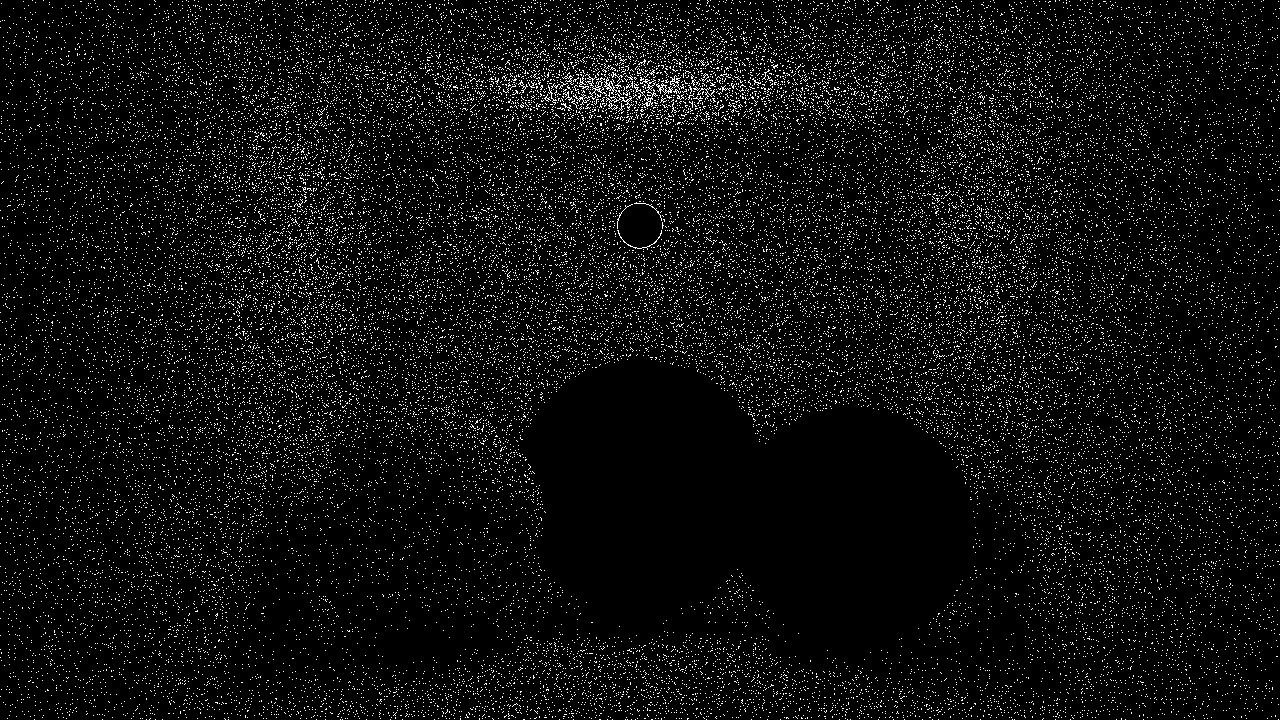
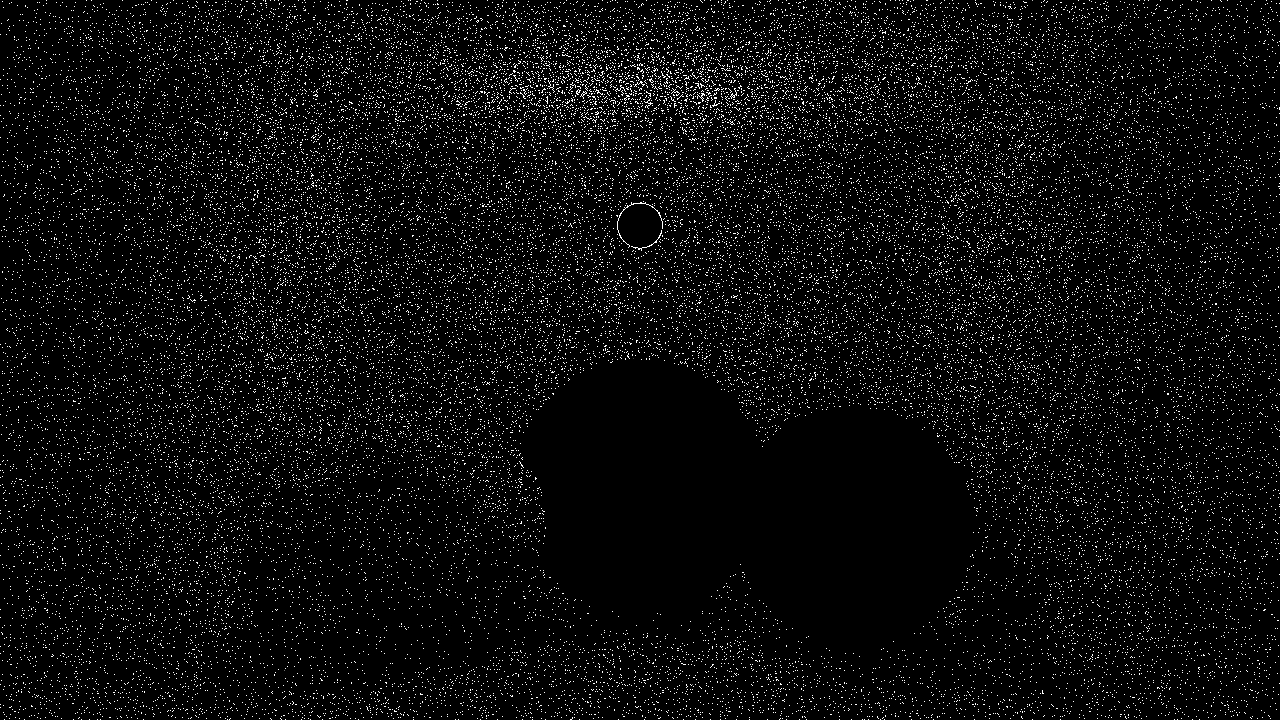
Got diffuse bounces working for path tracing

diff --git a/src/materials.h b/src/materials.h
@@ -202,14 +202,14 @@ public:
         float specularProb{ specular.GetValue().Gray() };
         float transmissiveProb{ refraction.GetValue().Gray() };
 
-        if (transmissiveProb > 0.0f) {
-            const float R0{ 0.04f };
-            const float cosTheta{ std::abs(sInfo.N().Dot(sInfo.V())) };
-            const float F{ R0 + (1.0f - R0) * powf(1.0f - cosTheta, 5.0f) };
-            const float totalSpecTrans{ specularProb + transmissiveProb };
-            specularProb = totalSpecTrans * F;
-            transmissiveProb = totalSpecTrans * (1.0f - F);
-        }
+        //if (transmissiveProb > 0.0f) {
+        //    const float R0{ 0.04f };
+        //    const float cosTheta{ std::abs(sInfo.N().Dot(sInfo.V())) };
+        //    const float F{ R0 + (1.0f - R0) * powf(1.0f - cosTheta, 5.0f) };
+        //    const float totalSpecTrans{ specularProb + transmissiveProb };
+        //    specularProb = totalSpecTrans * F;
+        //    transmissiveProb = totalSpecTrans * (1.0f - F);
+        //}
 
         const float totalProb{ diffuseProb + specularProb + transmissiveProb };
         diffuseProb /= totalProb;
@@ -217,24 +217,27 @@ public:
         transmissiveProb /= totalProb;
 
         const float randomNum{ sInfo.RandomFloat() };
-        if (randomNum < diffuseProb)
+        if (randomNum < diffuseProb) // TODO: Do cosine weighted instead of uniform
         {
             si.lobe = DirSampler::Lobe::DIFFUSE;
 
-            // Direction
-            const float r2{ sInfo.RandomFloat() };
-            const float cosTheta{ sqrtf(1.0f - r2) };
-            const float sinTheta{ sqrtf(r2) };
-            const float phi{ 2.0f * Pi<float>() * sInfo.RandomFloat() };
-            const Vec3f localDir{ sinTheta * cosf(phi), sinTheta * sinf(phi), cosTheta };
-            const Vec3f helper{ (std::abs(sInfo.N().x) > 0.9f) ? Vec3f{ 0.0f, 1.0f, 0.0f } : Vec3f{ 1.0f, 0.0f, 0.0f } };
-            const Vec3f tangent{ helper.Cross(sInfo.N()).GetNormalized() };
-            const Vec3f bitangent{ sInfo.N().Cross(tangent).GetNormalized() };
-            dir = (tangent * localDir.x) + (bitangent * localDir.y) + (sInfo.N() * localDir.z);
+            // Uniform hemisphere sample
+            const float r1{ sInfo.RandomFloat() };
+            const float cosTheta{ sInfo.RandomFloat() };
+            const float sinTheta{ sqrtf(1.0f - (cosTheta * cosTheta)) };
+            const float phi{ 2.0f * Pi<float>() * r1 };
 
-            dir.Normalize();
-            si.prob = cosTheta / Pi<float>();
-            si.mult = diffuse.GetValue() * (cosTheta / Pi<float>()) / diffuseProb;
+            const float x{ cosf(phi) * sinTheta };
+            const float y{ sinf(phi) * sinTheta };
+
+            Vec3f u, v;
+            sInfo.N().GetOrthonormals(u, v);
+
+            dir = (u * x) + (v * y) + (sInfo.N() * cosTheta);
+            const float geometryTerm{ std::max(0.0f, sInfo.N().Dot(dir)) };
+
+            si.prob = diffuseProb / (2.0f * Pi<float>());
+            si.mult = diffuse.GetValue() * geometryTerm / Pi<float>();
 
             return true;
         }

diff --git a/src/main.cpp b/src/main.cpp
@@ -243,22 +243,24 @@ Color tracePath(Ray ray)
         if (!material->GenerateSample(sInfo, bounceDir, indirectLightingInfo))
             break;
 
-        lastBounceProb = indirectLightingInfo.prob;
+        //lastBounceProb = indirectLightingInfo.prob;
 
         ray.dir = bounceDir;
-        const float sign{ (hInfo.N.Dot(bounceDir) > 0.0f) ? 1.0f : -1.0f };
-        ray.p = hInfo.p + (hInfo.N * 0.002f * sign);
+        const float sign{ (normal.Dot(bounceDir) > 0.0f) ? 1.0f : -1.0f };
+        ray.p = hInfo.p + (normal * 0.002f * sign);
 
+        //const float cosTheta{ bounceDir.Dot(normal) };
+        //throughput *= (indirectLightingInfo.mult * cosTheta) / indirectLightingInfo.prob;
         throughput *= indirectLightingInfo.mult / indirectLightingInfo.prob;
 
-        if (bounce > 2)
-        {
-            const float prob{ throughput.Max() };
-            if (tileThreads::rng.RandomFloat() > prob)
-                break;
+        //if (bounce > 2)
+        //{
+        //    const float prob{ throughput.Max() };
+        //    if (tileThreads::rng.RandomFloat() > prob)
+        //        break;
 
-            throughput /= prob;
-        }
+        //    throughput /= prob;
+        //}
     }
 
     return result;

diff --git a/src/lights.h b/src/lights.h
@@ -83,7 +83,7 @@ public:
 #ifdef LEGACY_SHADING_API
 	Color Illuminate( ShadeInfo const &sInfo, Vec3f &dir ) const override;
 #endif
-	Color Radiance( SamplerInfo const &sInfo ) const override { return intensity / (Pi<float>()*size*size); }
+	Color Radiance( SamplerInfo const &sInfo ) const override { return intensity / ((Pi<float>())*size*size); }
 	Color Intensity     () const override { return intensity; }
 	bool  IsRenderable  () const override { return size > 0.0f; }
 	bool  IsPhotonSource() const override { return true; }
